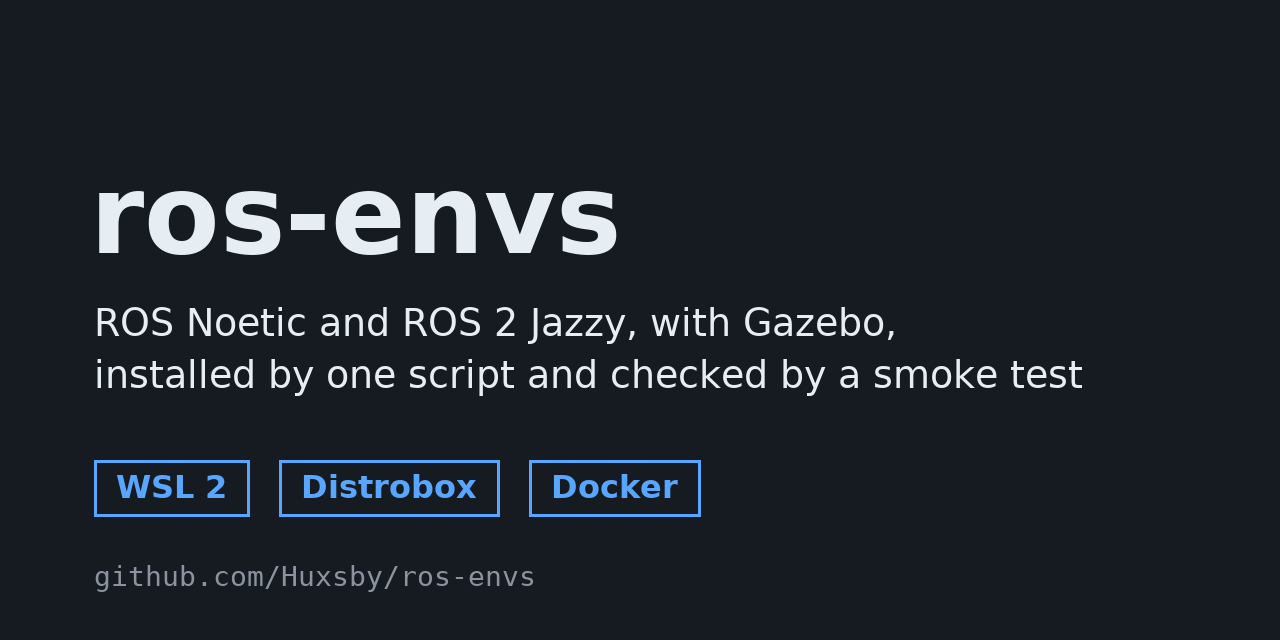
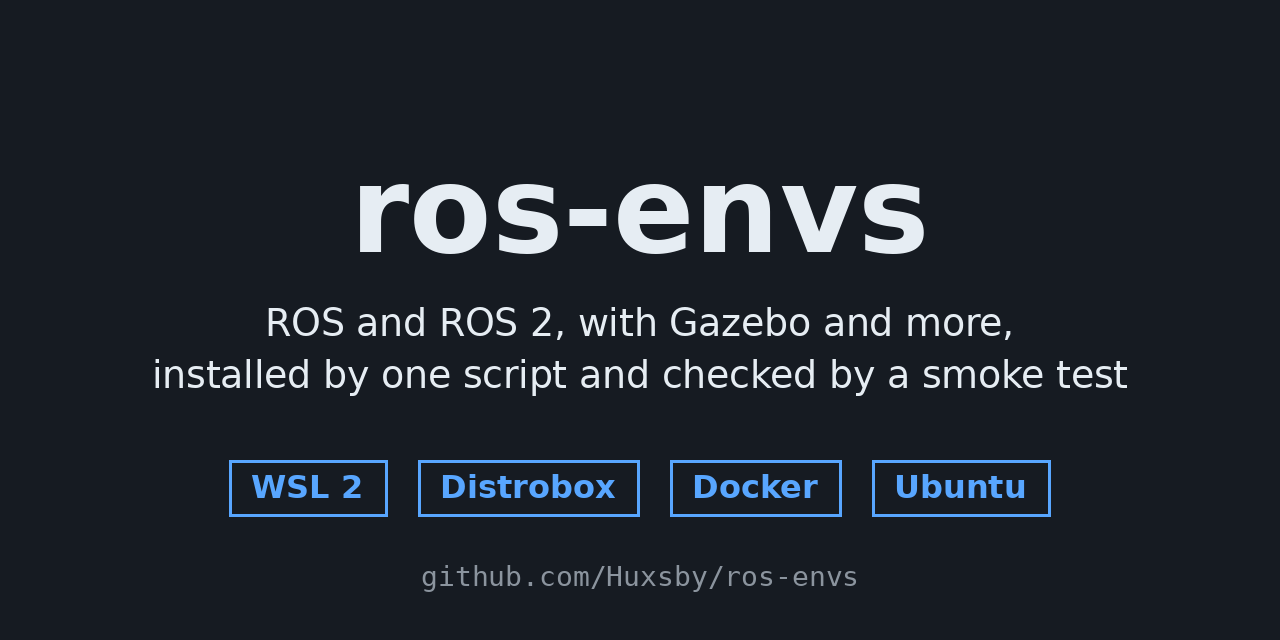
Generalize the description and center the social preview

diff --git a/README.es.md b/README.es.md
@@ -2,7 +2,7 @@
 
 [English](README.md) · **Español**
 
-**ROS 1 (Kinetic, Melodic o Noetic) o ROS 2 Jazzy con Gazebo funcionando en WSL 2, Distrobox o Docker, instalado por un solo script y comprobado con una prueba de humo.**
+**Entornos de ROS y ROS 2 con Gazebo y más, para WSL 2, Distrobox, Docker y Ubuntu, instalados por un solo script y comprobados con una prueba de humo.**
 
 [![Environments](https://github.com/Huxsby/ros-envs/actions/workflows/environments.yml/badge.svg)](https://github.com/Huxsby/ros-envs/actions/workflows/environments.yml) [![Release](https://img.shields.io/github/v/release/Huxsby/ros-envs)](https://github.com/Huxsby/ros-envs/releases) [![License: MIT](https://img.shields.io/badge/license-MIT-blue)](LICENSE)
 

diff --git a/README.md b/README.md
@@ -2,7 +2,7 @@
 
 **English** · [Español](README.es.md)
 
-**A working ROS 1 (Kinetic, Melodic or Noetic) or ROS 2 Jazzy with Gazebo on WSL 2, Distrobox or Docker, installed by one script and checked by a smoke test.**
+**ROS and ROS 2 environments with Gazebo and more, for WSL 2, Distrobox, Docker and Ubuntu, installed by one script and checked by a smoke test.**
 
 [![Environments](https://github.com/Huxsby/ros-envs/actions/workflows/environments.yml/badge.svg)](https://github.com/Huxsby/ros-envs/actions/workflows/environments.yml) [![Release](https://img.shields.io/github/v/release/Huxsby/ros-envs)](https://github.com/Huxsby/ros-envs/releases) [![License: MIT](https://img.shields.io/badge/license-MIT-blue)](LICENSE)
 
